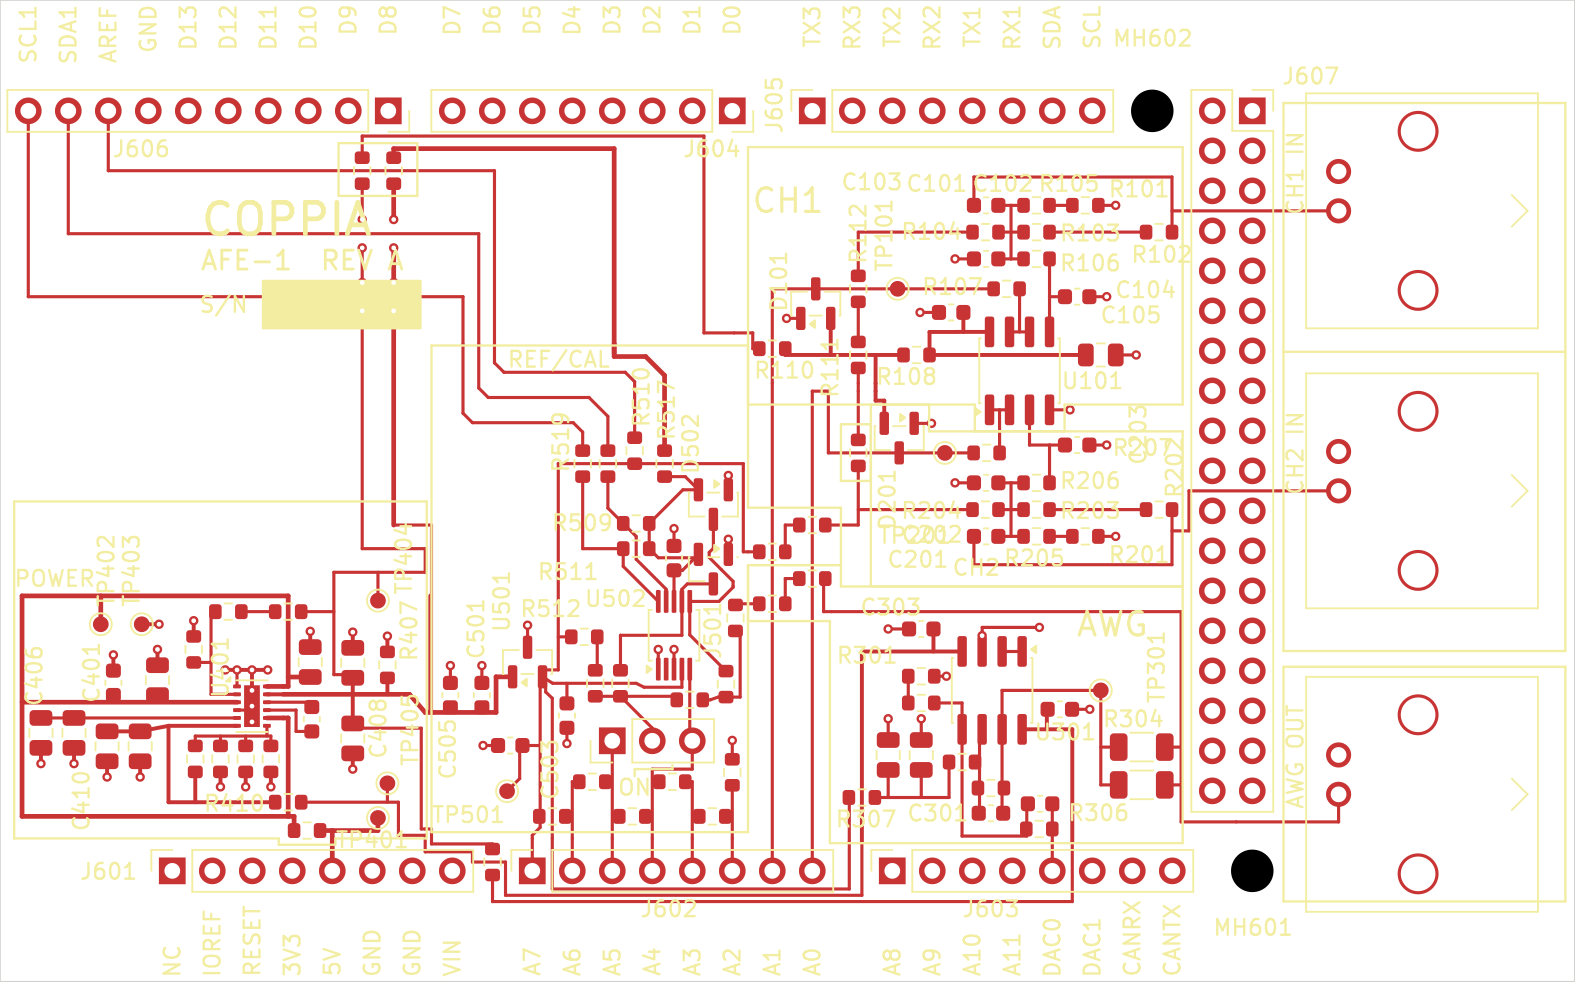
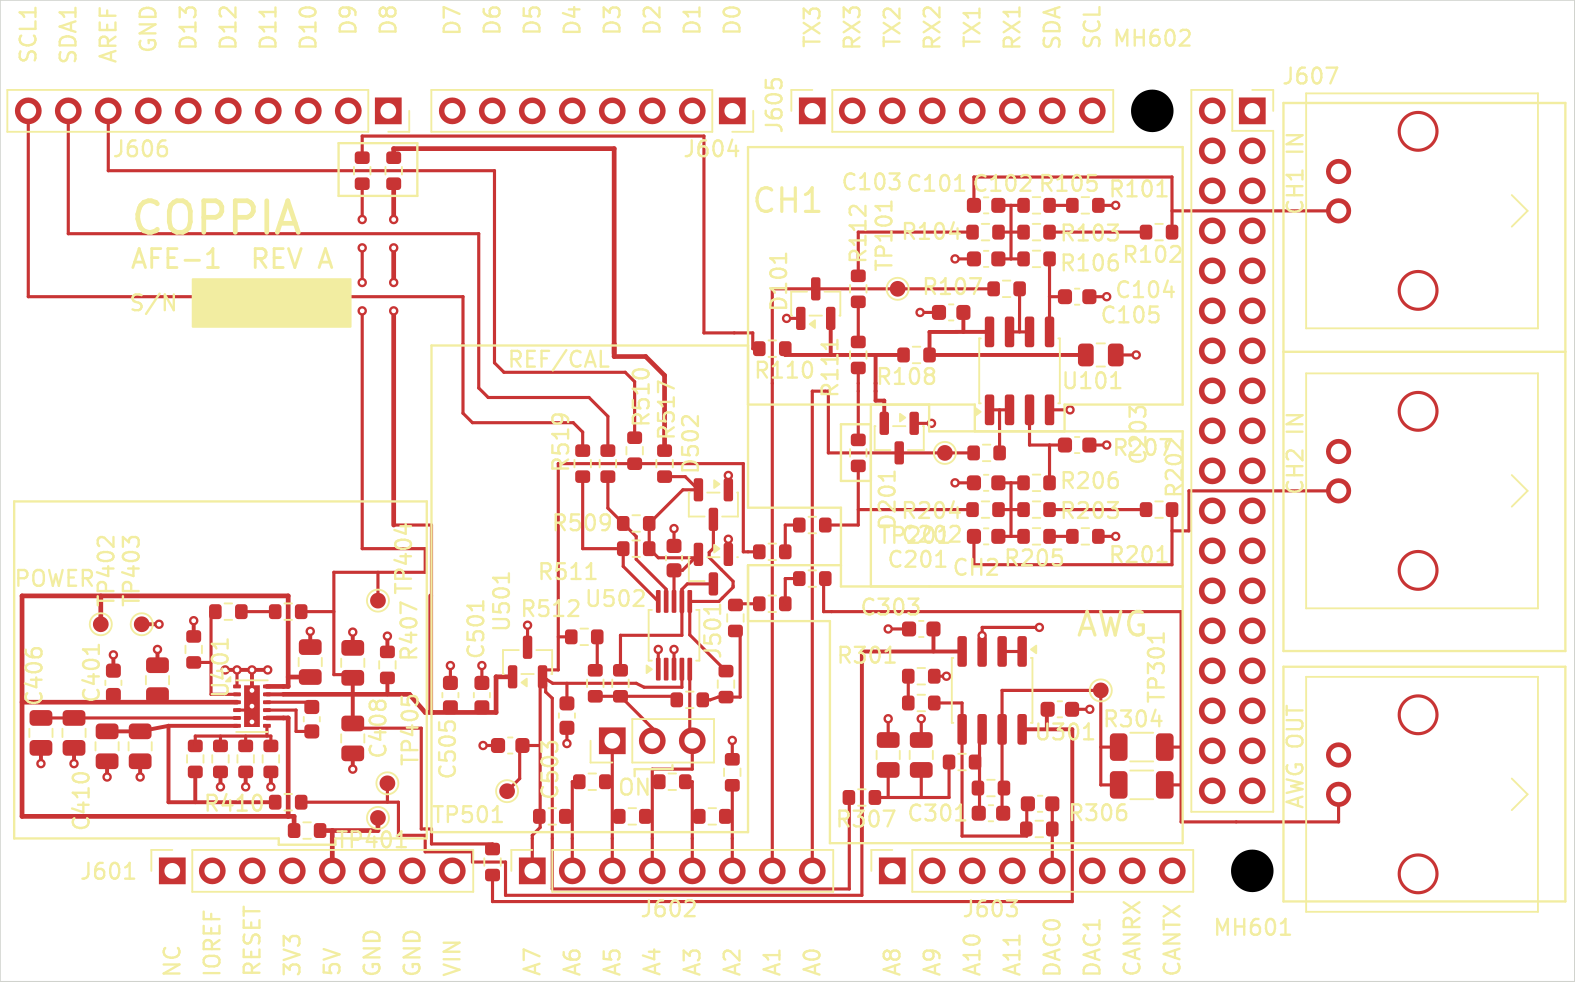
hardware: AFE-1 identity block clear of every via; R102 off J607's courtyard
The S/N box and the name and model-line text lay over four vias; the
board house clips silk over a drill. The block moves to x 25-39, y 37-45,
where no via, pad or courtyard is within 0.3 mm, with D29's sizes.
identity.via_findings holds it (a via within 0.3 mm of the box or of the
name, model or S/N-label text boxes); its test runs on both boards, and
on the old placement it reports 7 vias.

Claude-Session: https://claude.ai/code/session_01GL7oYBmx7PEfgkqDjptFvY

Changed region(s): [[0.0622, 0.1833, 0.28, 0.336], [0.7156, 0.2444, 0.7467, 0.2749]]

diff --git a/hardware/afe-proto/pcbtools/boards/v1.py b/hardware/afe-proto/pcbtools/boards/v1.py
@@ -20,7 +20,7 @@ FILE_STEM = f'{NAME}-{MODEL}-REV{REV}'
 SN_LABEL = 'S/N'
 JLC_ORDER_TEXT = 'JLCJLCJLCJLC'                 # the board house replaces it with the order number (bottom silk)
 # top silk, Due mm, text centres (h in mm): in the free area west of the first fence, outside the bands
-IDENT = dict(name=(35.2, 43.9, 2.0), line=(36.2, 41.3, 1.2), sn_label=(31.2, 38.5, 1.0), sn_box=(33.7, 37.0, 43.7, 40.0),
+IDENT = dict(name=(30.75, 44.0, 2.0), line=(31.75, 41.4, 1.2), sn_label=(26.75, 38.6, 1.0), sn_box=(29.25, 37.1, 39.25, 40.1),
              jlc=(35.0, 27.0, 1.0))
 HERE = os.path.dirname(os.path.abspath(__file__))
 # pcbtools/boards -> pcbtools -> hardware/afe-proto
@@ -434,6 +434,6 @@ SILK_TO_BOM = {
     'R518': 'passive with no place for a label inside its block nearer it than any other; no place inside its block nearer it than R519 (dense block)',
     'R520': 'passive with no place for a label inside its block nearer it than any other; no clear place for it: it would lie on the courtyard of J501',
 }   # {ref: reason}: a passive left off the silk, found through the BOM
-SILK_AT = {'J601': (23.9, 2.5, 0), 'J602': (59.49, 0.12, 0), 'J603': (79.94, 0.12, 0), 'J604': (62.21, 48.38, 0), 'J606': (25.98, 48.38, 0), 'J607': (100.24, 53.0, 0), 'MH601': (96.58, -1.06, 0), 'MH602': (90.2, 55.4, 0), 'J605': (66.17, 51.19, 90), 'TP404': (42.64, 22.4, 90), 'D201': (73.35, 26.15, 90)}                     # {ref: (x, y, angle)}: a label placed by hand and checked in the 3D render
+SILK_AT = {'J601': (23.9, 2.5, 0), 'J602': (59.49, 0.12, 0), 'J603': (79.94, 0.12, 0), 'J604': (62.21, 48.38, 0), 'J606': (25.98, 48.38, 0), 'J607': (100.24, 53.0, 0), 'MH601': (96.58, -1.06, 0), 'MH602': (90.2, 55.4, 0), 'J605': (66.17, 51.19, 90), 'TP404': (42.64, 22.4, 90), 'D201': (73.35, 26.15, 90), 'R102': (90.2, 41.67, 0)}                     # {ref: (x, y, angle)}: a label placed by hand and checked in the 3D render
 RENUMBER_LABELLED_ONLY = True    # silkruns: renumber only a run that carries a starter label
 SILK_LINE_CLEAR = 0.3            # a label keeps 0.3 mm off any silk line (spec lead, AFE-1 brief item 6)

diff --git a/hardware/afe-proto/tests/pcbtools/test_identity_vias.py b/hardware/afe-proto/tests/pcbtools/test_identity_vias.py
@@ -1,0 +1,33 @@
+"""D29's identity block keeps clear of drills (spec lead, 2026-11-15): no via within 0.3 mm of the S/N box or of the name, model-and-revision and
+S/N-label text boxes, on both boards. The rule is broken on purpose in a synthetic case and on the real boards (a via put into the box)."""
+import pathlib
+import types
+
+import pytest
+
+from pcbtools import boardio, identity
+
+HERE = pathlib.Path(__file__).resolve().parents[2]
+CFG = types.SimpleNamespace(NAME='NAME', ID_LINE='MODEL  REV A', SN_LABEL='S/N',
+                            IDENT=dict(name=(0, 0, 2.0), line=(0, -3, 1.2), sn_label=(-4, -6, 1.0), sn_box=(-1.0, -8.0, 9.0, -5.0)))
+
+
+def test_a_via_near_the_box_or_a_text_is_found_and_a_far_one_is_not():
+    assert identity.via_findings([(20.0, 20.0, 0.6)], CFG) == []
+    assert any('S/N box' in x for x in identity.via_findings([(4.0, -6.0, 0.6)], CFG))               # inside the box
+    assert any('S/N box' in x for x in identity.via_findings([(9.5, -6.5, 0.6)], CFG))               # 0.2 mm from its edge
+    assert identity.via_findings([(10.0, -6.5, 0.6)], CFG) == []                                   # 0.7 mm from it
+    assert any('name' in x for x in identity.via_findings([(0.0, 0.0, 0.6)], CFG))                  # under a letter
+    assert any('model and revision' in x for x in identity.via_findings([(0.0, -3.2, 0.6)], CFG))
+
+
+@pytest.mark.pcbnew
+@pytest.mark.parametrize('rel,cfgname', [('kicad/afe-proto.kicad_pcb', 'v1'), ('v2/layout/integrated/afe-v2-integrated.kicad_pcb', 'v2')])
+def test_the_identity_block_is_clear_of_every_via(rel, cfgname):
+    import importlib
+    cfg = importlib.import_module(f'pcbtools.boards.{cfgname}')
+    b = boardio.read_board(str(HERE / rel))
+    vias = list(zip(map(float, b.v_x), map(float, b.v_y), map(float, b.v_dia)))
+    assert identity.via_findings(vias, cfg) == []
+    inside = vias + [(sum(cfg.IDENT['sn_box'][0::2]) / 2, sum(cfg.IDENT['sn_box'][1::2]) / 2, 0.6)]
+    assert identity.via_findings(inside, cfg), 'a via put into the S/N box must be found'

diff --git a/hardware/afe-proto/pcbtools/identity.py b/hardware/afe-proto/pcbtools/identity.py
@@ -44,3 +44,26 @@ def findings(txt, cfg):
     if not any(abs(w - (x1 - x0)) < 1e-6 and abs(h - (y1 - y0)) < 1e-6 for w, h in _boxes(txt)):
         bad.append(f'no filled S/N box of {x1 - x0:g} x {y1 - y0:g} mm on F.SilkS')
     return bad
+
+
+TEXT_ADVANCE = 1.0      # mm per character per mm of height: a generous extent for the name and the model line (the board house's stroke font is narrower)
+
+
+def via_findings(vias, cfg, clear=0.3):
+    """the vias that lie within `clear` mm (edge to edge) of the S/N box or of the name, model-and-revision or S/N-label text boxes of the top silk: the board house clips
+    silk over a drill, so the filled box would print with holes and a letter with a gap. `vias`: [(x, y, diameter)] in Due mm; `cfg.IDENT` as above"""
+    I = cfg.IDENT
+    boxes = {'S/N box': tuple(I['sn_box'])}
+    for what, word, key in (('name', cfg.NAME, 'name'), ('model and revision', cfg.ID_LINE, 'line'), ('S/N label', cfg.SN_LABEL, 'sn_label')):
+        x, y, h = I[key]
+        w = len(word) * TEXT_ADVANCE * h
+        boxes[what] = (x - w / 2, y - h / 2, x + w / 2, y + h / 2)
+    bad = []
+    for what, (x0, y0, x1, y1) in boxes.items():
+        for vx, vy, d in vias:
+            dx = max(x0 - vx, 0.0, vx - x1)
+            dy = max(y0 - vy, 0.0, vy - y1)
+            gap = (dx * dx + dy * dy) ** 0.5 - d / 2
+            if gap < clear:
+                bad.append(f'via at ({vx:.2f}, {vy:.2f}) is {max(gap, 0.0):.2f} mm from the {what}, under {clear}')
+    return bad

diff --git a/hardware/afe-proto/tests/pcbtools/test_silkread.py b/hardware/afe-proto/tests/pcbtools/test_silkread.py
@@ -199,7 +199,7 @@ def test_the_frame_follows_the_connector_rotation():
 
 LABELS = {'J101': 'CH1 IN', 'J201': 'CH2 IN', 'J301': 'AWG OUT'}
 # Findings on 2026-11-15 under the run convention, before any board work for it: held exactly (a ratchet, not a tolerance).
-OPEN = {'v2/layout/integrated/afe-v2-integrated.kicad_pcb': 0, 'kicad/afe-proto.kicad_pcb': 13}
+OPEN = {'v2/layout/integrated/afe-v2-integrated.kicad_pcb': 0, 'kicad/afe-proto.kicad_pcb': 18}
 
 
 @pytest.mark.pcbnew
